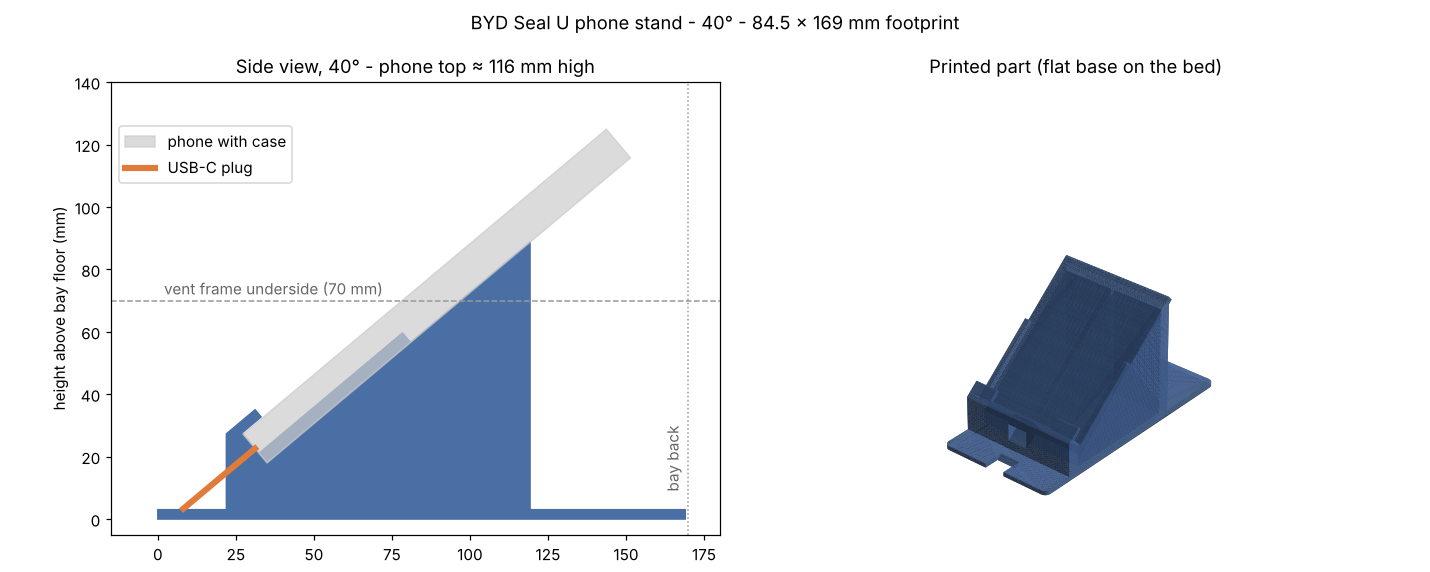
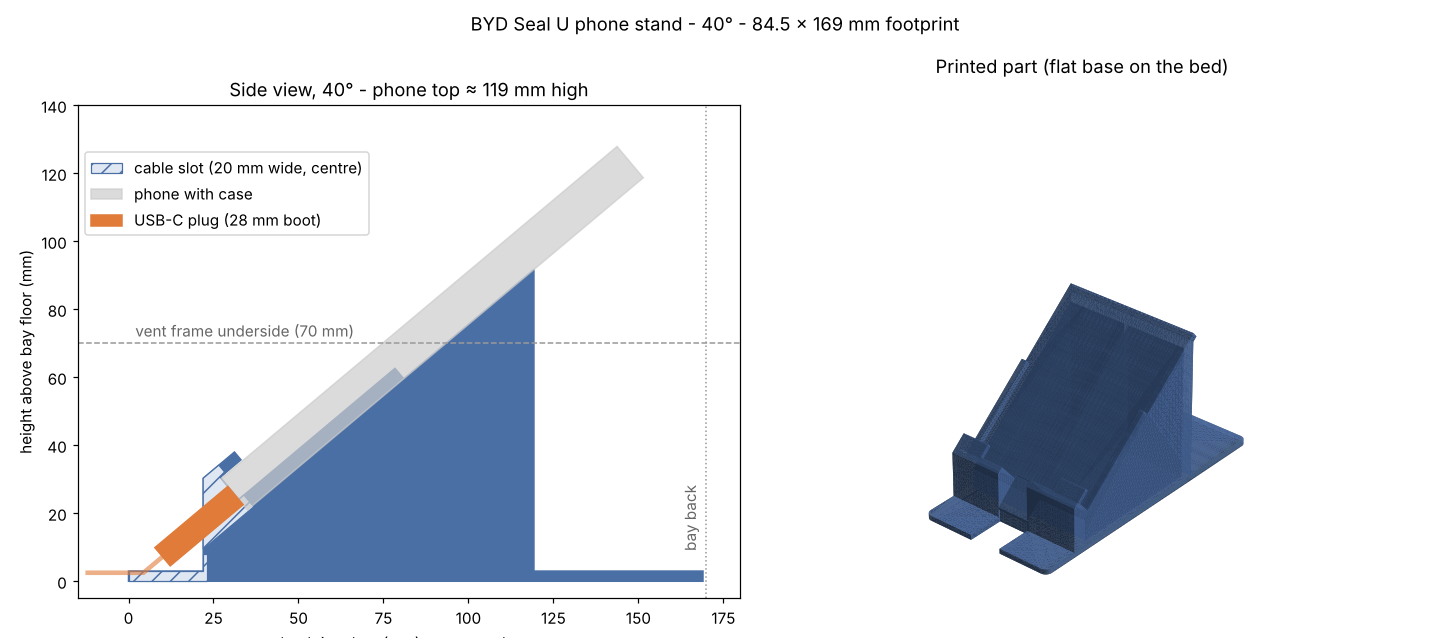
Phone stand: make the USB-C cable path actually fit
A collision check against a modelled plug (28 mm rigid boot, 12.5 x 7 mm,
port 4.5-6.5 mm above the case back, phone shifted +-1.5 mm) showed the
15 mm slot clipped the boot in 21 of 27 cases and a long boot hit the bay
floor at 45 degrees. Widen the slot to 20 mm, open it towards the screen
side so the cable drops in, cut the base notch back to the front block,
and raise the phone 3 mm. The check now runs on every build and the
previews show the slot and plug.

Claude-Session: https://claude.ai/code/session_013YA3AEwLfcXLzScjqCic9X

diff --git a/phone-holder/generate_holder.py b/phone-holder/generate_holder.py
@@ -60,12 +60,22 @@ LIP_T = 3.0
 LIP_H = 8.0            # lip height along the phone
 LIP_W = 14.0           # lips only at the two corners, screen stays clear
 RIB_T = 3.0
-P0 = (35.0, 18.0)      # back-bottom corner of the phone (x, z)
-# Cable path: slot through the ledge, then a tunnel out of the front.
-CABLE_W = 15.0
-CABLE_N = (1.5, 11.0)  # slot extent across the phone thickness
-CABLE_LEN = 45.0       # along the phone axis, below the ledge
-TUNNEL_H = 12.0
+P0 = (35.0, 21.0)      # back-bottom corner of the phone (x, z): high enough
+                       # that a 28 mm plug boot clears the bay floor at 45 deg
+# Cable path: a slot through the ledge along the phone axis, open towards the
+# screen side so the cable drops in from the front, then a notch in the base
+# so the cable lies on the bay floor. Sized for plug boots up to 13 x 7.5 mm
+# and 28 mm long, with the phone shifted up to 1.5 mm sideways.
+CABLE_W = 20.0
+CABLE_N = (-0.5, 40.0)  # slot extent across the phone thickness
+CABLE_LEN = 60.0        # along the phone axis, below the ledge
+TUNNEL_H = 8.0
+
+# Plug envelope the stand is checked against (from the case face outwards).
+PLUG_BOOT = (12.5, 7.0, 28.0)   # width, thickness, rigid length
+PLUG_PORT_N = (4.5, 5.5, 6.5)   # port centre above the phone's back, per case
+PLUG_SHIFT = (-1.5, 0.0, 1.5)   # phone sliding sideways between the guides
+CABLE_D = 5.0
 
 TEST_T = 2.0           # fit-test plate thickness
 VARIANTS = [35, 40, 45]
@@ -146,9 +156,41 @@ def build_stand(angle):
     # Cable path: plug slot along the phone axis + tunnel out of the front.
     y0, y1 = W / 2 - CABLE_W / 2, W / 2 + CABLE_W / 2
     plug = quad(P, -CABLE_LEN, 2, *CABLE_N)
-    tunnel = rect(-1, P(-CABLE_LEN, CABLE_N[1])[0] + CABLE_W, -1, TUNNEL_H)
+    tunnel = rect(-1, x_front + 1, -1, TUNNEL_H)
     solid -= side_extrude(plug + tunnel, y0, y1)
     return solid
+
+
+def check_cable_fit(angle, stand):
+    """Assert the phone, a USB-C plug boot and its cable all clear the stand.
+
+    The boot sticks straight out of the phone's bottom along the phone axis;
+    the cable carries on along that axis to the bay floor, then runs out of
+    the front of the bay on the floor. Every port height / sideways shift
+    combination must have zero overlap with the stand and keep the boot
+    above the floor.
+    """
+    P = frame(angle)
+    a = math.radians(angle)
+    phone = side_extrude(quad(P, 0.05, PHONE_L, 0.05, PHONE_T - 1),
+                         W / 2 - PHONE_W / 2 - 1, W / 2 + PHONE_W / 2 - 1)
+    assert (stand ^ phone).volume() < 0.01, f"{angle} deg: phone hits the stand"
+    bw, bt, bl = PLUG_BOOT
+    r = CABLE_D / 2
+    for n_c in PLUG_PORT_N:
+        boot_cs = quad(P, -bl, 0, n_c - bt / 2, n_c + bt / 2)
+        low = P(-bl, n_c - bt / 2)[1]
+        assert low > 0.5, f"{angle} deg: plug boot hits the bay floor ({low:.1f} mm)"
+        drop = (P(-bl, n_c)[1] - r) / math.sin(a)
+        cable_cs = quad(P, -bl - drop, -bl, n_c - r, n_c + r) + rect(
+            -5, P(-bl - drop, n_c)[0] + r, 0.01, CABLE_D)
+        for dy in PLUG_SHIFT:
+            yc = W / 2 + dy
+            boot = side_extrude(boot_cs, yc - bw / 2, yc + bw / 2)
+            cable = side_extrude(cable_cs, yc - r, yc + r)
+            hit = (stand ^ boot).volume() + (stand ^ cable).volume()
+            assert hit < 0.01, f"{angle} deg: plug/cable hits the stand (port {n_c}, shift {dy})"
+    return min(P(-bl, n - bt / 2)[1] for n in PLUG_PORT_N)
 
 
 def build_test_plate():
@@ -171,7 +213,7 @@ def phone_outline(P):
 
 def render_preview(angle, tm, path):
     P = frame(angle)
-    fig = plt.figure(figsize=(13, 5.2))
+    fig = plt.figure(figsize=(13, 5.8))
 
     # Side view: stand profile, phone, plug and the vent frame height.
     ax = fig.add_subplot(1, 2, 1)
@@ -179,10 +221,21 @@ def render_preview(angle, tm, path):
         P, -LEDGE_T, LIP_H, SLOT_T, SLOT_T + LIP_T) + rect(0, D, 0, BASE_T)
     for ring in side.to_polygons():
         ax.fill(*np.vstack([ring, ring[:1]]).T, color="#4a6fa5")
+    # The centre strip is cut away for the plug and cable.
+    slot = (quad(P, -CABLE_LEN, 2, *CABLE_N) + rect(-1, P(-LEDGE_T, SLOT_T + LIP_T)[0] + 1, -1, TUNNEL_H)) ^ side
+    for i, ring in enumerate(slot.to_polygons()):
+        ax.fill(*np.vstack([ring, ring[:1]]).T, facecolor="#dfe7f2", edgecolor="#4a6fa5", hatch="//",
+                lw=0.8, label=f"cable slot ({CABLE_W:.0f} mm wide, centre)" if i == 0 else None)
     ph = phone_outline(P)
     ax.fill(ph[:, 0], ph[:, 1], color="#cccccc", alpha=0.7, label="phone with case")
-    plug = np.array([P(0, 6), P(-30, 6)])
-    ax.plot(plug[:, 0], plug[:, 1], color="#e07b39", lw=4, label="USB-C plug")
+    bw, bt, bl = PLUG_BOOT
+    n_c = PLUG_PORT_N[1]
+    boot = np.array([P(0, n_c - bt / 2), P(-bl, n_c - bt / 2), P(-bl, n_c + bt / 2),
+                     P(0, n_c + bt / 2), P(0, n_c - bt / 2)])
+    ax.fill(boot[:, 0], boot[:, 1], color="#e07b39", label=f"USB-C plug ({bl:.0f} mm boot)")
+    drop = (P(-bl, n_c)[1] - CABLE_D / 2) / math.sin(math.radians(angle))
+    cable = np.array([P(-bl, n_c), P(-bl - drop, n_c), (-12, CABLE_D / 2)])
+    ax.plot(cable[:, 0], cable[:, 1], color="#e07b39", lw=3, alpha=0.6)
     ax.axhline(FRAME_CLEARANCE, color="#999999", ls="--", lw=1)
     ax.text(2, FRAME_CLEARANCE + 2, f"vent frame underside ({FRAME_CLEARANCE:.0f} mm)", color="#666666")
     ax.axvline(BAY_D, color="#999999", ls=":", lw=1)
@@ -239,11 +292,15 @@ def main():
     for angle in VARIANTS:
         if wanted and angle not in wanted:
             continue
-        tm = to_trimesh(build_stand(angle), f"stand {angle}")
+        stand = build_stand(angle)
+        floor_gap = check_cable_fit(angle, stand)
+        tm = to_trimesh(stand, f"stand {angle}")
         path = out_dir / f"seal_u_phone_stand_{angle}deg.stl"
         tm.export(path)
         render_preview(angle, tm, out_dir / f"seal_u_phone_stand_{angle}deg_preview.png")
         report(path, tm)
+        print(f"   cable check OK: {PLUG_BOOT[2]:.0f} mm plug boot, "
+              f"{floor_gap:.1f} mm above the bay floor at worst")
 
 
 if __name__ == "__main__":

diff --git a/phone-holder/README.md b/phone-holder/README.md
@@ -14,9 +14,9 @@ centre console. Held by the bay's rubber tabs only: no adhesive, no vent clip.
 | קובץ | זווית מהרצפה | גובה המעמד | גובה קצה הטלפון | הערות |
 |------|--------------|-------------|-------------------|-------|
 | [fit_test_plate.stl](stl/fit_test_plate.stl) | — | 2 מ"מ | — | **להדפיס קודם** (~15 דק') ולבדוק שנכנס לתא |
-| [seal_u_phone_stand_35deg.stl](stl/seal_u_phone_stand_35deg.stl) | 35° | 81 מ"מ | ~105 מ"מ | הכי שכוב; הטלפון מגיע ~1 ס"מ מהקיר האחורי |
-| [seal_u_phone_stand_40deg.stl](stl/seal_u_phone_stand_40deg.stl) | 40° | 89 מ"מ | ~116 מ"מ | **ברירת מחדל** |
-| [seal_u_phone_stand_45deg.stl](stl/seal_u_phone_stand_45deg.stl) | 45° | 96 מ"מ | ~126 מ"מ | הכי זקוף |
+| [seal_u_phone_stand_35deg.stl](stl/seal_u_phone_stand_35deg.stl) | 35° | 84 מ"מ | ~108 מ"מ | הכי שכוב; הטלפון מגיע ~1 ס"מ מהקיר האחורי |
+| [seal_u_phone_stand_40deg.stl](stl/seal_u_phone_stand_40deg.stl) | 40° | 92 מ"מ | ~119 מ"מ | **ברירת מחדל** |
+| [seal_u_phone_stand_45deg.stl](stl/seal_u_phone_stand_45deg.stl) | 45° | 99 מ"מ | ~128 מ"מ | הכי זקוף |
 
 תצוגות: [35°](stl/seal_u_phone_stand_35deg_preview.png) ·
 [40°](stl/seal_u_phone_stand_40deg_preview.png) ·
@@ -29,9 +29,14 @@ centre console. Held by the bay's rubber tabs only: no adhesive, no vent clip.
   ולגלקסי S24 / S25 עם כיסוי (עד 12 מ"מ עובי, ~76 מ"מ רוחב).
 - **תמיכה:** משטח גב באורך 110 מ"מ; דפנות צד נמוכות (4 מ"מ) רק ב-60 המ"מ
   התחתונים, כדי לא ללחוץ על כפתורי הצד. שפה קדמית רק בפינות — תחתית המסך פנויה.
-- **כבל טעינה:** חריץ 15 מ"מ באמצע המדף — תקע USB‑C ישר עובר דרכו לתעלה,
-  והכבל יוצא מקדמת המעמד לאורך רצפת התא. כבל עם תקע 90° עובד גם הוא.
-  (בזווית הזאת הטעינה האלחוטית של התא לא מגיעה לטלפון.)
+- **כבל טעינה:** חריץ ברוחב 20 מ"מ באמצע המדף, פתוח קדימה, כך שאפשר לחבר
+  את הכבל לטלפון ואז להניח את הטלפון במעמד והכבל "נופל" לחריץ. הכבל יוצא
+  מקדמת המעמד דרך פתח בבסיס ושוכב על רצפת התא.
+  - **בדוק בקוד** (`check_cable_fit`, רץ בכל יצירה): תקע עם ראש קשיח עד
+    **28 מ"מ** אורך (מפני הכיסוי והחוצה), עד 13 × 7.5 מ"מ, לא נוגע במעמד ולא
+    ברצפת התא, בכל גובה שקע 4.5–6.5 מ"מ מגב הכיסוי ובהזזה של ±1.5 מ"מ לצדדים.
+  - ראש ארוך יותר (או חוט עבה וקשיח) — עדיף כבל עם תקע 90°.
+  - בזווית הזאת הטעינה האלחוטית של התא לא מגיעה לטלפון.
 - **שימו לב:** קצה הטלפון העליון עומד מול הלמלות התחתונות של פתח המזגן
   השמאלי (המסגרת הכסופה מתחילה בגובה 70 מ"מ מהרצפה).
 
